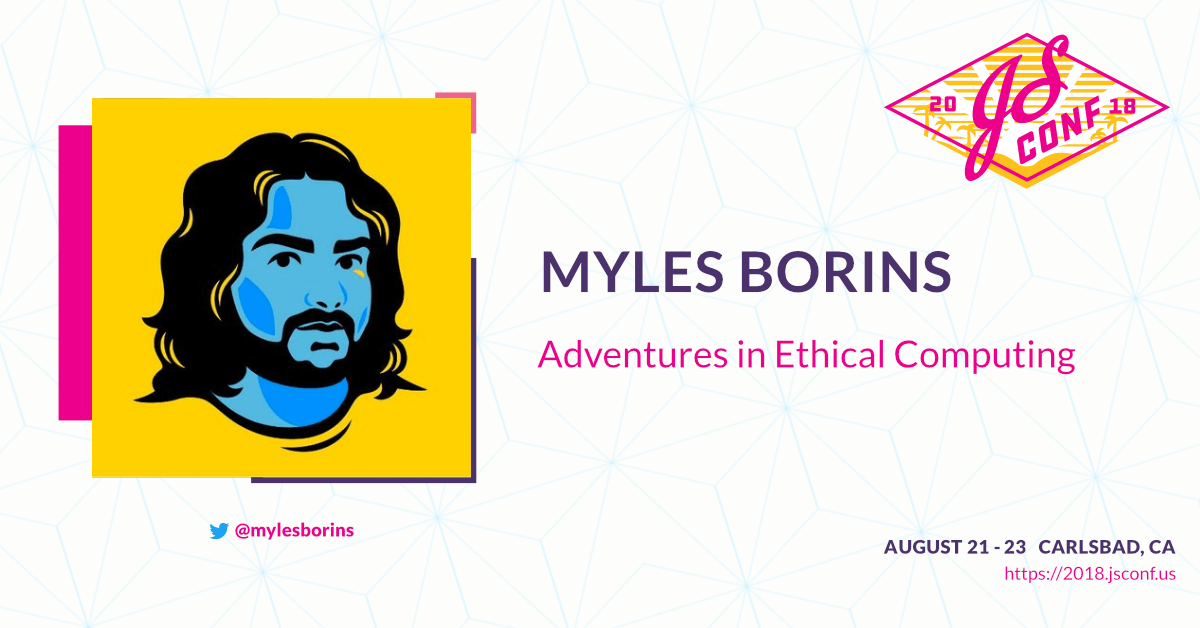
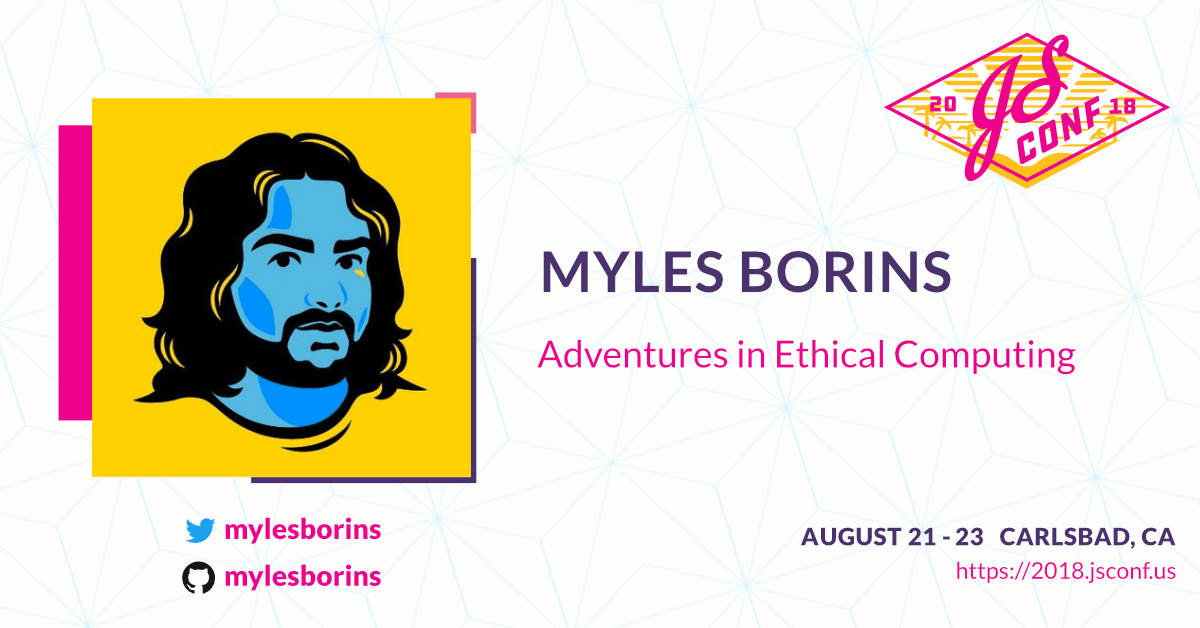
Add visibility to Myles as speaker

Changed region(s): [[0.6475, 0.8169, 0.9867, 0.9379], [0.1542, 0.8169, 0.3392, 0.9379]]

diff --git a/content/speakers/myles-borins.md b/content/speakers/myles-borins.md
@@ -7,7 +7,7 @@ speakers:
   name: Myles Borins
   twitter: mylesborins
   url: https://mylesborins.com
-visible: false
+visible: true
 ---
 
 Machine learning algorithms can infer gender when translating from gender neutral languages to english due to bias in training data.
